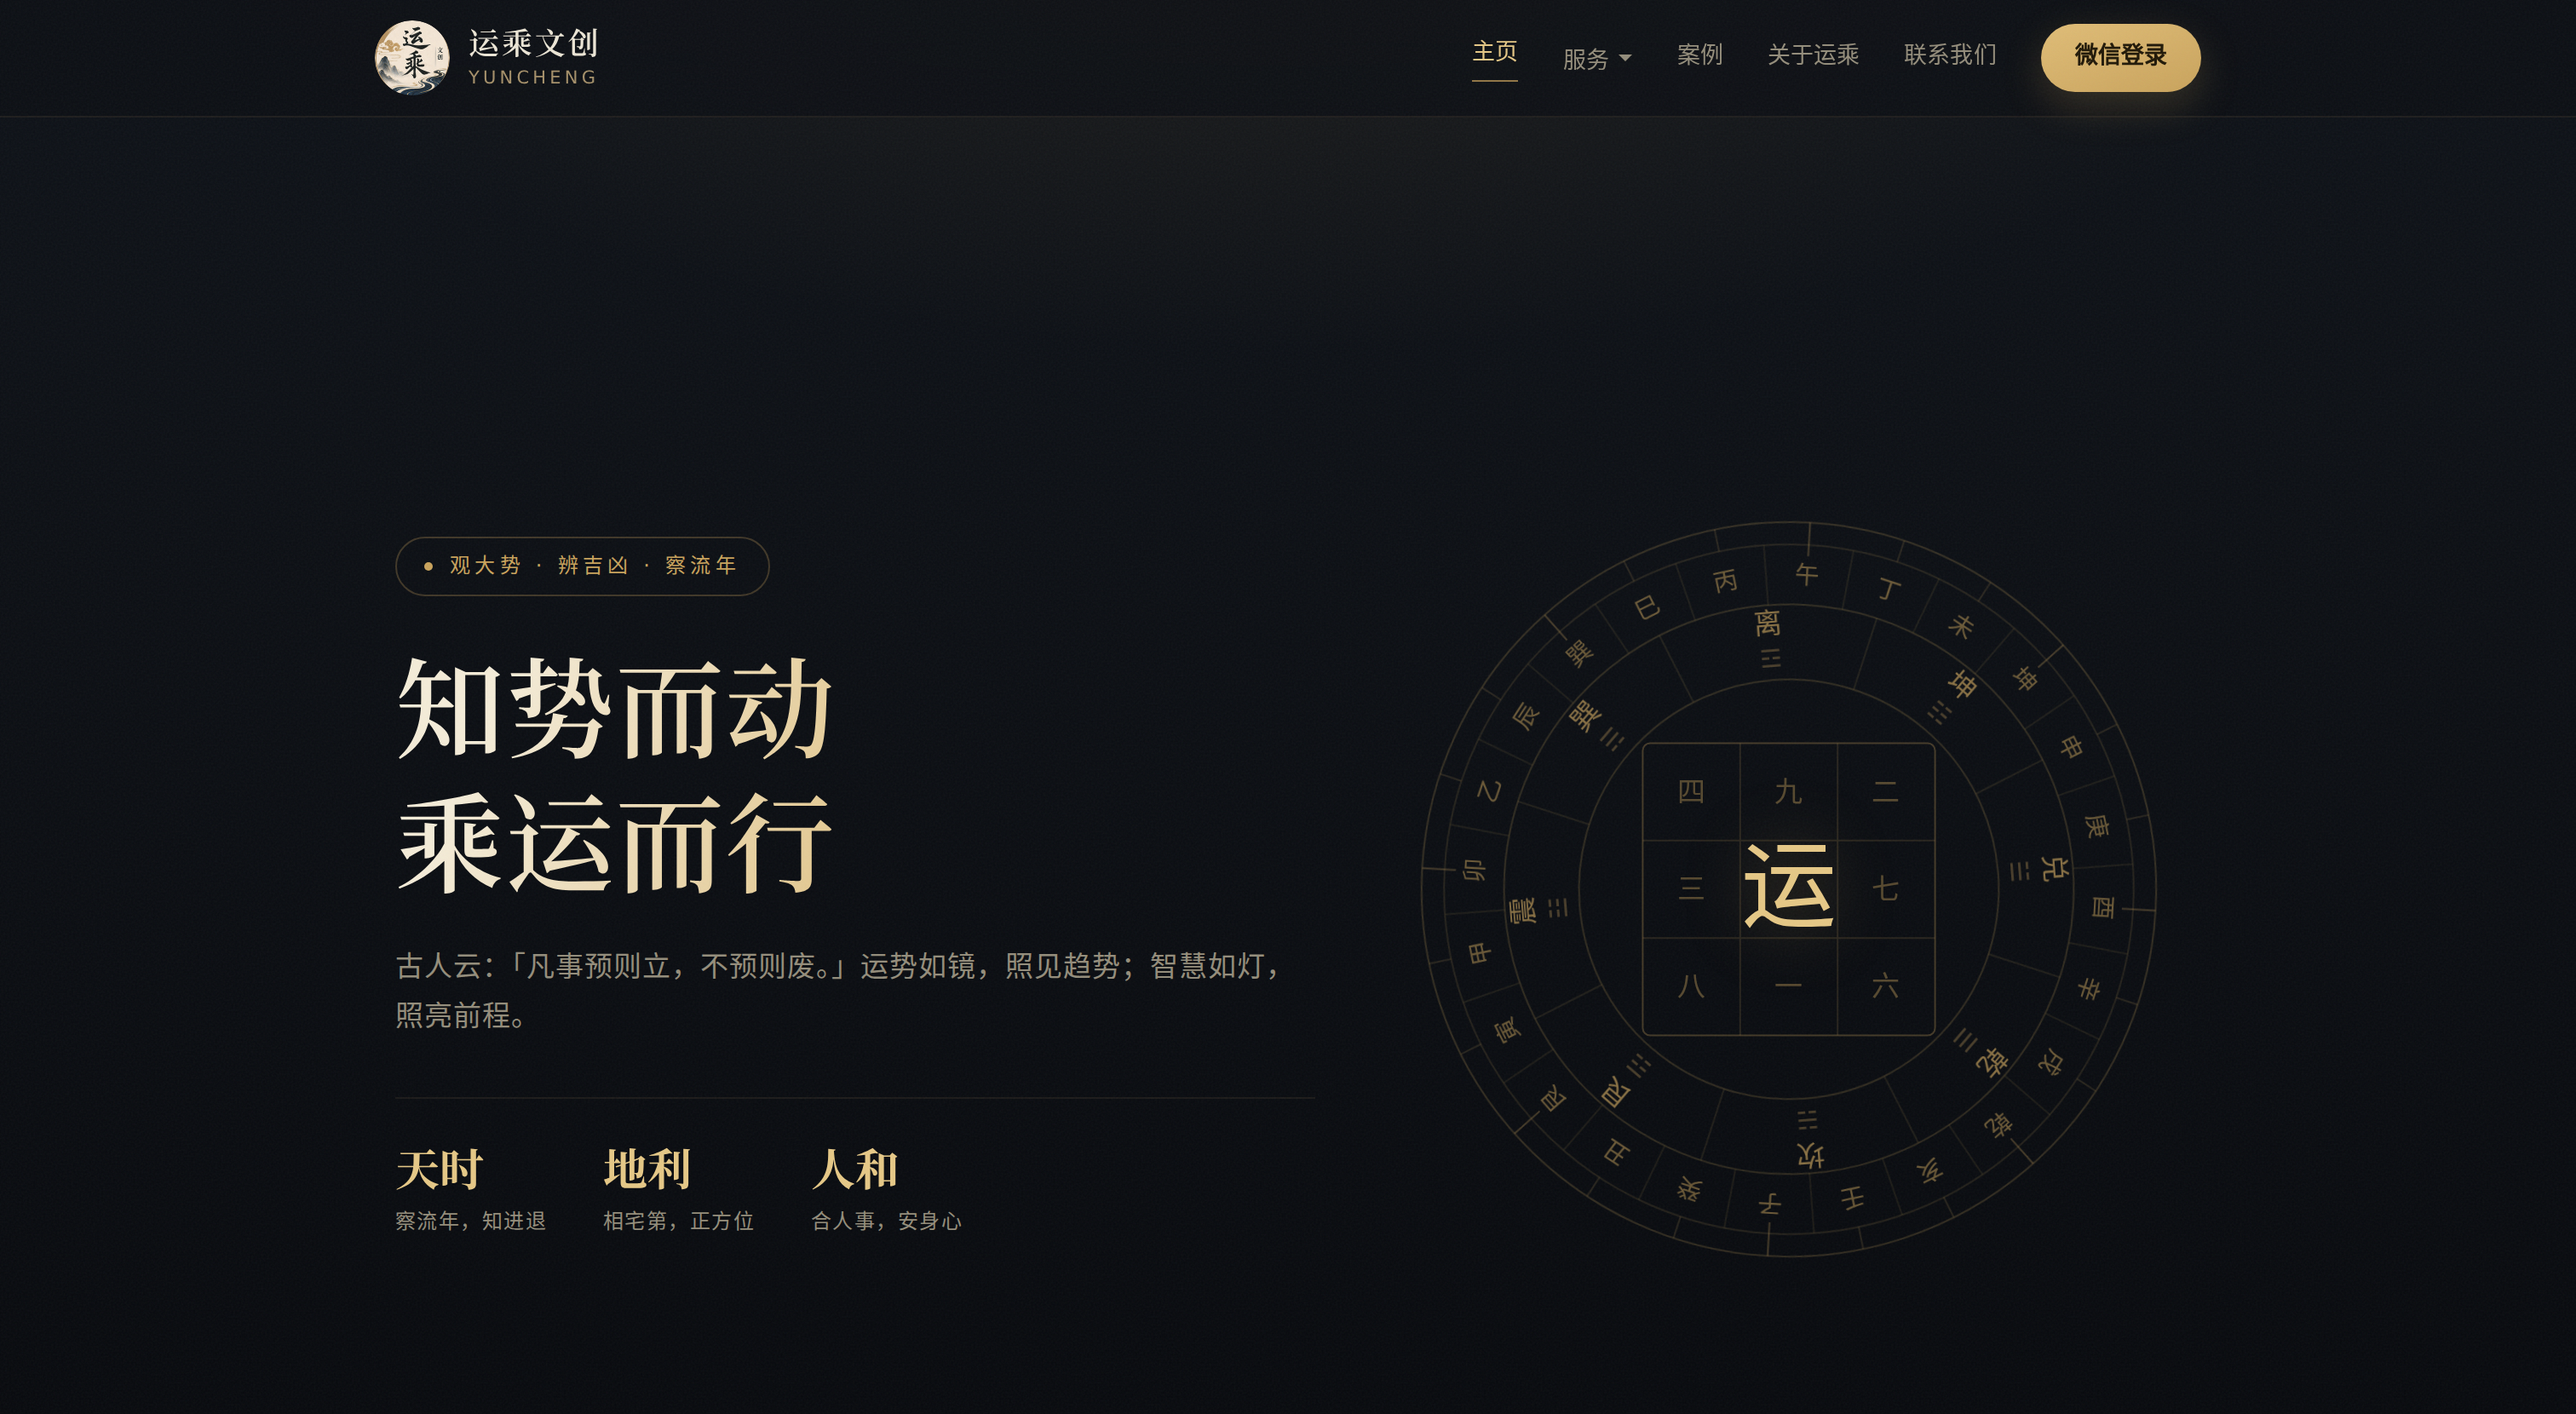
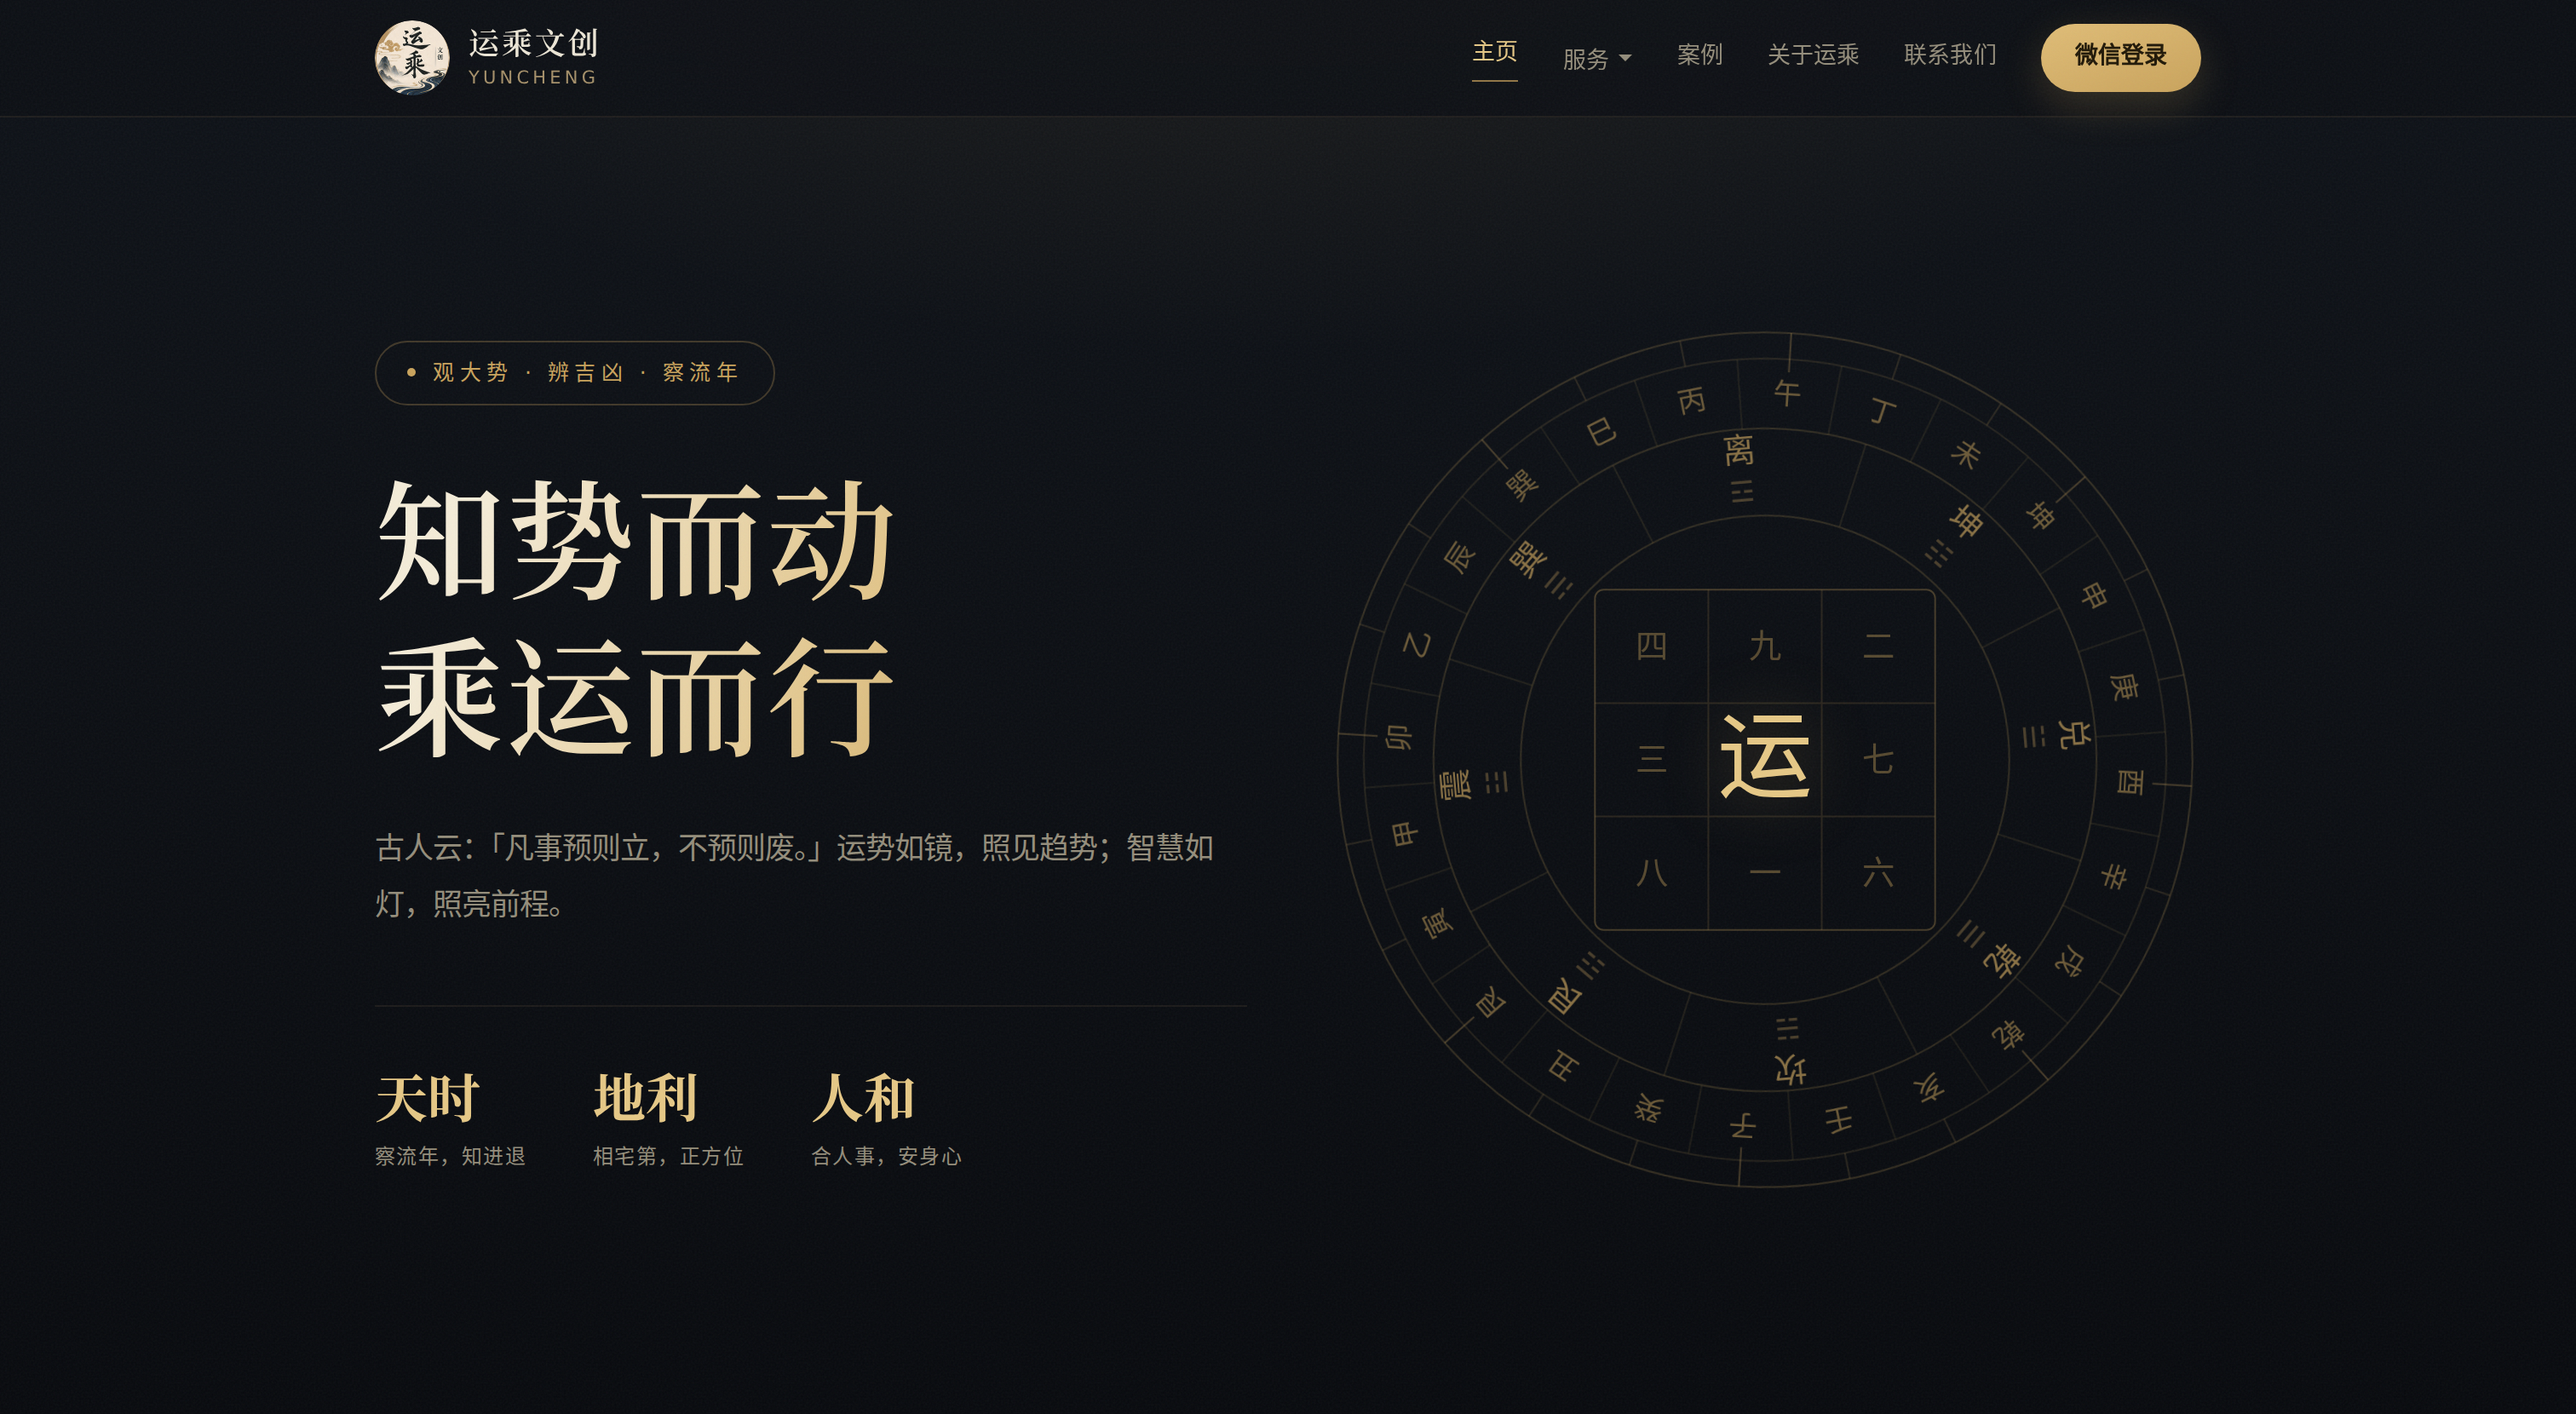
content(nav): 导航项改名——服务 → 产品服务，案例 → 服务案例
全站 12 个页面的主导航同步更新。下拉菜单四项与页脚未动。
实测：12 页 × 1440/390 双断点导航项一致、无 JS 报错、无横向溢出。

Claude-Session: https://claude.ai/code/session_01DZ6RTC3hdp1G7u38rVpyYV

diff --git a/about.html b/about.html
@@ -22,7 +22,7 @@
     <nav class="nav" id="ycNav" aria-label="主导航">
       <a href="index.html">主页</a>
       <div class="nav-group">
-        <button type="button" class="nav-trigger" aria-expanded="false" aria-controls="ycSvcMenu">服务<span class="caret" aria-hidden="true"></span></button>
+        <button type="button" class="nav-trigger" aria-expanded="false" aria-controls="ycSvcMenu">产品服务<span class="caret" aria-hidden="true"></span></button>
         <div class="submenu" id="ycSvcMenu">
           <a href="product.html">户型分析报告</a>
           <a href="interpret.html">一对一解读</a>
@@ -30,7 +30,7 @@
           <a href="commercial.html">商业空间顾问</a>
         </div>
       </div>
-      <a href="cases.html">案例</a>
+      <a href="cases.html">服务案例</a>
       <a href="about.html">关于运乘</a>
       <a href="contact.html">联系我们</a>
       <span class="nav-account" id="ycAccount"></span>

diff --git a/cases.html b/cases.html
@@ -22,7 +22,7 @@
     <nav class="nav" id="ycNav" aria-label="主导航">
       <a href="index.html">主页</a>
       <div class="nav-group">
-        <button type="button" class="nav-trigger" aria-expanded="false" aria-controls="ycSvcMenu">服务<span class="caret" aria-hidden="true"></span></button>
+        <button type="button" class="nav-trigger" aria-expanded="false" aria-controls="ycSvcMenu">产品服务<span class="caret" aria-hidden="true"></span></button>
         <div class="submenu" id="ycSvcMenu">
           <a href="product.html">户型分析报告</a>
           <a href="interpret.html">一对一解读</a>
@@ -30,7 +30,7 @@
           <a href="commercial.html">商业空间顾问</a>
         </div>
       </div>
-      <a href="cases.html">案例</a>
+      <a href="cases.html">服务案例</a>
       <a href="about.html">关于运乘</a>
       <a href="contact.html">联系我们</a>
       <span class="nav-account" id="ycAccount"></span>

diff --git a/commercial.html b/commercial.html
@@ -22,7 +22,7 @@
     <nav class="nav" id="ycNav" aria-label="主导航">
       <a href="index.html">主页</a>
       <div class="nav-group">
-        <button type="button" class="nav-trigger" aria-expanded="false" aria-controls="ycSvcMenu">服务<span class="caret" aria-hidden="true"></span></button>
+        <button type="button" class="nav-trigger" aria-expanded="false" aria-controls="ycSvcMenu">产品服务<span class="caret" aria-hidden="true"></span></button>
         <div class="submenu" id="ycSvcMenu">
           <a href="product.html">户型分析报告</a>
           <a href="interpret.html">一对一解读</a>
@@ -30,7 +30,7 @@
           <a href="commercial.html">商业空间顾问</a>
         </div>
       </div>
-      <a href="cases.html">案例</a>
+      <a href="cases.html">服务案例</a>
       <a href="about.html">关于运乘</a>
       <a href="contact.html">联系我们</a>
       <span class="nav-account" id="ycAccount"></span>

diff --git a/contact.html b/contact.html
@@ -22,7 +22,7 @@
     <nav class="nav" id="ycNav" aria-label="主导航">
       <a href="index.html">主页</a>
       <div class="nav-group">
-        <button type="button" class="nav-trigger" aria-expanded="false" aria-controls="ycSvcMenu">服务<span class="caret" aria-hidden="true"></span></button>
+        <button type="button" class="nav-trigger" aria-expanded="false" aria-controls="ycSvcMenu">产品服务<span class="caret" aria-hidden="true"></span></button>
         <div class="submenu" id="ycSvcMenu">
           <a href="product.html">户型分析报告</a>
           <a href="interpret.html">一对一解读</a>
@@ -30,7 +30,7 @@
           <a href="commercial.html">商业空间顾问</a>
         </div>
       </div>
-      <a href="cases.html">案例</a>
+      <a href="cases.html">服务案例</a>
       <a href="about.html">关于运乘</a>
       <a href="contact.html">联系我们</a>
       <span class="nav-account" id="ycAccount"></span>

diff --git a/index.html b/index.html
@@ -26,7 +26,7 @@
     <nav class="nav" id="ycNav" aria-label="主导航">
       <a href="index.html">主页</a>
       <div class="nav-group">
-        <button type="button" class="nav-trigger" aria-expanded="false" aria-controls="ycSvcMenu">服务<span class="caret" aria-hidden="true"></span></button>
+        <button type="button" class="nav-trigger" aria-expanded="false" aria-controls="ycSvcMenu">产品服务<span class="caret" aria-hidden="true"></span></button>
         <div class="submenu" id="ycSvcMenu">
           <a href="product.html">户型分析报告</a>
           <a href="interpret.html">一对一解读</a>
@@ -34,7 +34,7 @@
           <a href="commercial.html">商业空间顾问</a>
         </div>
       </div>
-      <a href="cases.html">案例</a>
+      <a href="cases.html">服务案例</a>
       <a href="about.html">关于运乘</a>
       <a href="contact.html">联系我们</a>
       <span class="nav-account" id="ycAccount"></span>

diff --git a/interpret.html b/interpret.html
@@ -22,7 +22,7 @@
     <nav class="nav" id="ycNav" aria-label="主导航">
       <a href="index.html">主页</a>
       <div class="nav-group">
-        <button type="button" class="nav-trigger" aria-expanded="false" aria-controls="ycSvcMenu">服务<span class="caret" aria-hidden="true"></span></button>
+        <button type="button" class="nav-trigger" aria-expanded="false" aria-controls="ycSvcMenu">产品服务<span class="caret" aria-hidden="true"></span></button>
         <div class="submenu" id="ycSvcMenu">
           <a href="product.html">户型分析报告</a>
           <a href="interpret.html">一对一解读</a>
@@ -30,7 +30,7 @@
           <a href="commercial.html">商业空间顾问</a>
         </div>
       </div>
-      <a href="cases.html">案例</a>
+      <a href="cases.html">服务案例</a>
       <a href="about.html">关于运乘</a>
       <a href="contact.html">联系我们</a>
       <span class="nav-account" id="ycAccount"></span>

diff --git a/onsite.html b/onsite.html
@@ -22,7 +22,7 @@
     <nav class="nav" id="ycNav" aria-label="主导航">
       <a href="index.html">主页</a>
       <div class="nav-group">
-        <button type="button" class="nav-trigger" aria-expanded="false" aria-controls="ycSvcMenu">服务<span class="caret" aria-hidden="true"></span></button>
+        <button type="button" class="nav-trigger" aria-expanded="false" aria-controls="ycSvcMenu">产品服务<span class="caret" aria-hidden="true"></span></button>
         <div class="submenu" id="ycSvcMenu">
           <a href="product.html">户型分析报告</a>
           <a href="interpret.html">一对一解读</a>
@@ -30,7 +30,7 @@
           <a href="commercial.html">商业空间顾问</a>
         </div>
       </div>
-      <a href="cases.html">案例</a>
+      <a href="cases.html">服务案例</a>
       <a href="about.html">关于运乘</a>
       <a href="contact.html">联系我们</a>
       <span class="nav-account" id="ycAccount"></span>

diff --git a/orders.html b/orders.html
@@ -22,7 +22,7 @@
     <nav class="nav" id="ycNav" aria-label="主导航">
       <a href="index.html">主页</a>
       <div class="nav-group">
-        <button type="button" class="nav-trigger" aria-expanded="false" aria-controls="ycSvcMenu">服务<span class="caret" aria-hidden="true"></span></button>
+        <button type="button" class="nav-trigger" aria-expanded="false" aria-controls="ycSvcMenu">产品服务<span class="caret" aria-hidden="true"></span></button>
         <div class="submenu" id="ycSvcMenu">
           <a href="product.html">户型分析报告</a>
           <a href="interpret.html">一对一解读</a>
@@ -30,7 +30,7 @@
           <a href="commercial.html">商业空间顾问</a>
         </div>
       </div>
-      <a href="cases.html">案例</a>
+      <a href="cases.html">服务案例</a>
       <a href="about.html">关于运乘</a>
       <a href="contact.html">联系我们</a>
       <span class="nav-account" id="ycAccount"></span>

diff --git a/pay.html b/pay.html
@@ -22,7 +22,7 @@
     <nav class="nav" id="ycNav" aria-label="主导航">
       <a href="index.html">主页</a>
       <div class="nav-group">
-        <button type="button" class="nav-trigger" aria-expanded="false" aria-controls="ycSvcMenu">服务<span class="caret" aria-hidden="true"></span></button>
+        <button type="button" class="nav-trigger" aria-expanded="false" aria-controls="ycSvcMenu">产品服务<span class="caret" aria-hidden="true"></span></button>
         <div class="submenu" id="ycSvcMenu">
           <a href="product.html">户型分析报告</a>
           <a href="interpret.html">一对一解读</a>
@@ -30,7 +30,7 @@
           <a href="commercial.html">商业空间顾问</a>
         </div>
       </div>
-      <a href="cases.html">案例</a>
+      <a href="cases.html">服务案例</a>
       <a href="about.html">关于运乘</a>
       <a href="contact.html">联系我们</a>
       <span class="nav-account" id="ycAccount"></span>

diff --git a/product.html b/product.html
@@ -26,7 +26,7 @@
     <nav class="nav" id="ycNav" aria-label="主导航">
       <a href="index.html">主页</a>
       <div class="nav-group">
-        <button type="button" class="nav-trigger" aria-expanded="false" aria-controls="ycSvcMenu">服务<span class="caret" aria-hidden="true"></span></button>
+        <button type="button" class="nav-trigger" aria-expanded="false" aria-controls="ycSvcMenu">产品服务<span class="caret" aria-hidden="true"></span></button>
         <div class="submenu" id="ycSvcMenu">
           <a href="product.html">户型分析报告</a>
           <a href="interpret.html">一对一解读</a>
@@ -34,7 +34,7 @@
           <a href="commercial.html">商业空间顾问</a>
         </div>
       </div>
-      <a href="cases.html">案例</a>
+      <a href="cases.html">服务案例</a>
       <a href="about.html">关于运乘</a>
       <a href="contact.html">联系我们</a>
       <span class="nav-account" id="ycAccount"></span>

diff --git a/report.html b/report.html
@@ -22,7 +22,7 @@
     <nav class="nav" id="ycNav" aria-label="主导航">
       <a href="index.html">主页</a>
       <div class="nav-group">
-        <button type="button" class="nav-trigger" aria-expanded="false" aria-controls="ycSvcMenu">服务<span class="caret" aria-hidden="true"></span></button>
+        <button type="button" class="nav-trigger" aria-expanded="false" aria-controls="ycSvcMenu">产品服务<span class="caret" aria-hidden="true"></span></button>
         <div class="submenu" id="ycSvcMenu">
           <a href="product.html">户型分析报告</a>
           <a href="interpret.html">一对一解读</a>
@@ -30,7 +30,7 @@
           <a href="commercial.html">商业空间顾问</a>
         </div>
       </div>
-      <a href="cases.html">案例</a>
+      <a href="cases.html">服务案例</a>
       <a href="about.html">关于运乘</a>
       <a href="contact.html">联系我们</a>
       <span class="nav-account" id="ycAccount"></span>

diff --git a/upload.html b/upload.html
@@ -22,7 +22,7 @@
     <nav class="nav" id="ycNav" aria-label="主导航">
       <a href="index.html">主页</a>
       <div class="nav-group">
-        <button type="button" class="nav-trigger" aria-expanded="false" aria-controls="ycSvcMenu">服务<span class="caret" aria-hidden="true"></span></button>
+        <button type="button" class="nav-trigger" aria-expanded="false" aria-controls="ycSvcMenu">产品服务<span class="caret" aria-hidden="true"></span></button>
         <div class="submenu" id="ycSvcMenu">
           <a href="product.html">户型分析报告</a>
           <a href="interpret.html">一对一解读</a>
@@ -30,7 +30,7 @@
           <a href="commercial.html">商业空间顾问</a>
         </div>
       </div>
-      <a href="cases.html">案例</a>
+      <a href="cases.html">服务案例</a>
       <a href="about.html">关于运乘</a>
       <a href="contact.html">联系我们</a>
       <span class="nav-account" id="ycAccount"></span>
